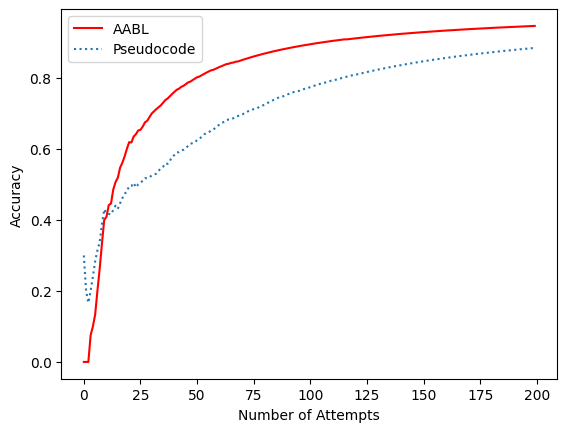
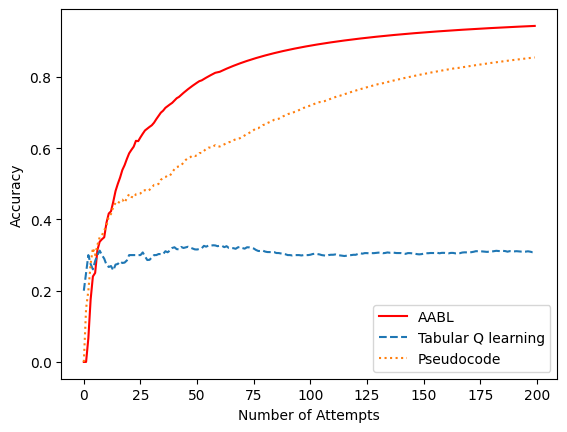
backup

diff --git a/Accelerated_ABL/tabular_comparison.py b/Accelerated_ABL/tabular_comparison.py
@@ -5,10 +5,10 @@ Created on Thursday Oct 13 2020
 """
 
 
-import scenarios_adjusted as scenarios
-import BAF2_adjusted as BAF2
+import scenarios_original as scenarios
+import BAF2_original as BAF2
 import BAF
-import myABL
+import pseudocode as myABL
 import tabular
 from sklearn import tree
 import numpy as np
@@ -23,6 +23,7 @@ if __name__ == "__main__":
     all_TPs = np.zeros((number_of_iterations,number_of_attempts))
     all_TPs_Orig = np.zeros((number_of_iterations, number_of_attempts))
     all_TPs_my = np.zeros((number_of_iterations, number_of_attempts))
+    all_TPs_tabular = np.zeros((number_of_iterations, number_of_attempts))
     scenario_type = "first" #options are "first" and "second"
 
 
@@ -33,23 +34,33 @@ if __name__ == "__main__":
         baf = BAF2.BAF2(gen.scenario, gen)
         baf2 = BAF.BAF(gen.scenario)
         myBAF = myABL.BAFUnit()
+        locations = list(range(0, gen.number_of_locations))
+        colors = list(gen.colors.values())
+        colors.append("Noc")
+        concepts = list(gen.concepts.values())
+        concepts.append("Noc")
+        actions = list(gen.recovery_behaviors.values())
+        Qlearn = tabular.TabularQLearning(locations, colors, concepts, actions)
+
         saved_scenarios_in_memory_for_other_approaches = []
         saved_best_recovery_behaviors_in_memory_for_other_approaches = []
         TP = 0
         TP_Orig = 0
         TP_my = 0
+        TP_tabular = 0
         DT_TP = 0
 
         AABL_time = 0
         Orig_time = 0
         My_time = 0
+        Tabular_time = 0
         feature_indices = []
         for attempt in range(number_of_attempts):
             gen.generate_scenario()
 
 
             start = timer()
-            guess = baf.generate_second_guess(gen.scenario, saved_scenarios_in_memory_for_other_approaches, saved_best_recovery_behaviors_in_memory_for_other_approaches)
+            guess = baf.generate_second_guess(gen.scenario, saved_scenarios_in_memory_for_other_approaches, saved_best_recovery_behaviors_in_memory_for_other_approaches, show_rule=True)
             baf.update_baf(gen.scenario, gen.best_recovery_behavior, saved_scenarios_in_memory_for_other_approaches, saved_best_recovery_behaviors_in_memory_for_other_approaches)
             if gen.best_recovery_behavior == guess:
                 TP += 1
@@ -78,11 +89,24 @@ if __name__ == "__main__":
             # print(f"NEW: {timer()-start} s")
             My_time += timer()-start
 
+            
+
+            start = timer()
+            guess = Qlearn.choose_action(gen.scenario)
+            Qlearn.update_q_table(gen.scenario, gen.best_recovery_behavior, 1)
+            if guess == gen.best_recovery_behavior:
+                TP_tabular += 1
+            all_TPs_tabular[itr, attempt] = TP_tabular
+
+            # print(f"NEW: {timer()-start} s")
+            Tabular_time += timer()-start
+
 
             saved_scenarios_in_memory_for_other_approaches.append(gen.scenario_to_numerical())
-            saved_best_recovery_behaviors_in_memory_for_other_approaches.append(gen.best_recovery_behavior)
+            saved_best_recovery_behaviors_in_memory_for_other_approaches.append(gen.recovery_behavior_to_numerical())
+            
  
-            print(f"{attempt}:AABL: {TP}, Original: {TP_Orig}, EABL: {TP_my}")
+            print(f"{attempt}:AABL: {TP}, Original: {TP_Orig}, EABL: {TP_my}, Tabular: {TP_tabular}")
             print("best recovery was", gen.best_recovery_behavior)
             # input("Press any key...")
 
@@ -90,7 +114,7 @@ if __name__ == "__main__":
 
         fig, ax = plt.subplots(nrows=1, ncols=1)
         ax.plot(range(number_of_attempts), np.mean(all_TPs[:itr+1], axis=0)/(np.array(range(number_of_attempts)) + 1), 'r-', label="AABL")
-        # ax.plot(range(number_of_attempts), np.mean(all_TPs_Orig[:itr + 1], axis=0) / (np.array(range(number_of_attempts)) + 1), '--', label="Original ABL")
+        ax.plot(range(number_of_attempts), np.mean(all_TPs_tabular[:itr + 1], axis=0) / (np.array(range(number_of_attempts)) + 1), '--', label="Tabular Q learning")
         ax.plot(range(number_of_attempts), np.mean(all_TPs_my[:itr + 1], axis=0) / (np.array(range(number_of_attempts)) + 1), ':', label="Pseudocode")
         ax.set_xlabel("Number of Attempts")
         ax.set_ylabel("Accuracy")
@@ -102,4 +126,5 @@ if __name__ == "__main__":
     print(f"Total Process Time = {end_time - start_time}")
     print("AABL time", AABL_time)
     print("New time", My_time)
+    print("Tabular time", Tabular_time)
     plt.show()

diff --git a/Accelerated_ABL/tabular.py b/Accelerated_ABL/tabular.py
@@ -1,0 +1,44 @@
+import numpy as np
+import random
+
+class TabularQLearning:
+    def __init__(self, location, color, concept, actions, learning_rate=1, exploration_rate=0):
+        self.location = location
+        self.color = color
+        self.concept = concept
+        self.actions = actions
+        self.learning_rate = learning_rate
+        self.exploration_rate = exploration_rate
+        self.q_table = np.zeros((len(location), len(color), len(concept), len(actions)))
+
+        self.location_index = {loc: i for i, loc in enumerate(location)}
+        self.color_index = {col: i for i, col in enumerate(color)}
+        self.concept_index = {con: i for i, con in enumerate(concept)}
+        self.action_index = {act: i for i, act in enumerate(actions)}
+
+    def get_state_index(self, states):
+        for i, state in enumerate(states):
+            loc_i = self.location_index[i]
+            col_i = self.color_index[state[0]]
+            con_i = self.concept_index[state[1]]
+        return (loc_i, col_i, con_i)
+
+    def choose_action(self, state):
+        if random.uniform(0, 1) < self.exploration_rate:
+            return random.choice(self.actions)
+        
+        state_index = self.get_state_index(state)
+        action_values = self.q_table[state_index]
+        max_action_value = np.max(action_values)
+        
+        actions_with_max_value = [action for action, value in zip(self.actions, action_values) if value == max_action_value]
+        
+        return random.choice(actions_with_max_value)
+
+    def update_q_table(self, state, action, reward):
+        state_index = self.get_state_index(state)
+
+        old_value = self.q_table[state_index + (self.action_index[action],)]
+
+        updated_value = old_value + self.learning_rate * reward
+        self.q_table[state_index + (self.action_index[action],)] = updated_value

diff --git a/Accelerated_ABL/scenarios_original.py b/Accelerated_ABL/scenarios_original.py
@@ -190,8 +190,9 @@ class ScenarioGenerator:
         return str
 
 
-# if __name__ == "__main__":
-#     generator = ScenarioGenerator("second")
-#     for i in range(10):
-#         generator.generate_scenario()
-#         print(generator)
+if __name__ == "__main__":
+    generator = ScenarioGenerator("second")
+    for i in range(10):
+        generator.generate_scenario()
+        print(generator.scenario)
+        print(generator)
